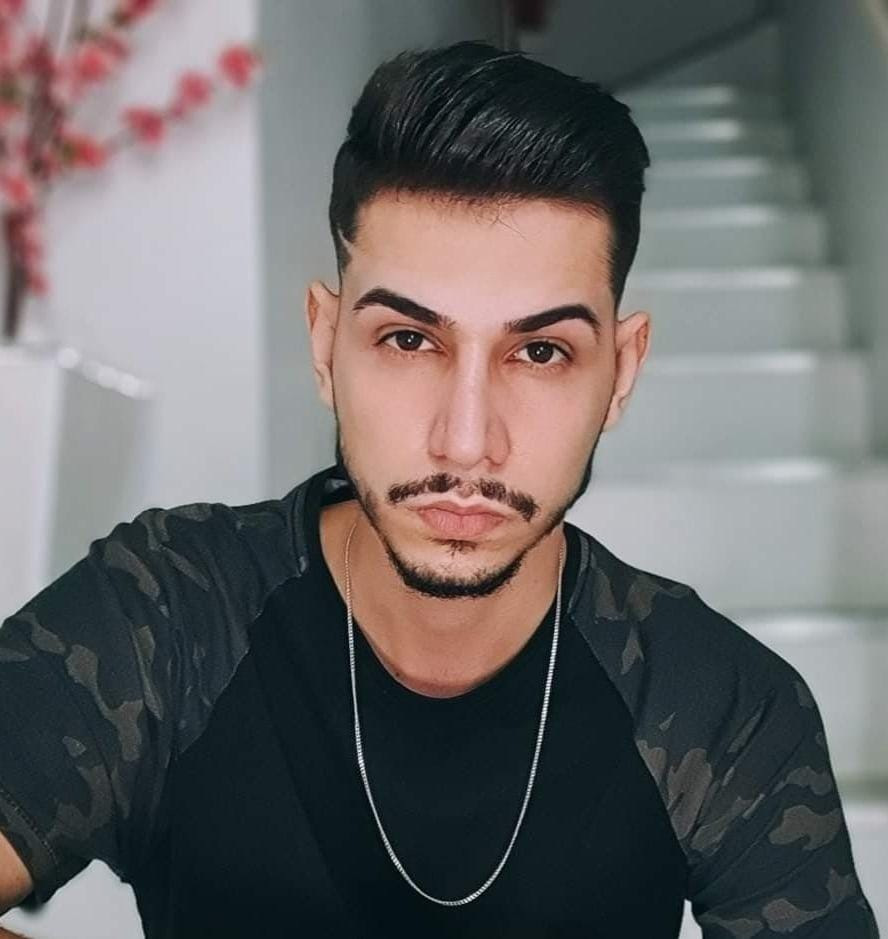
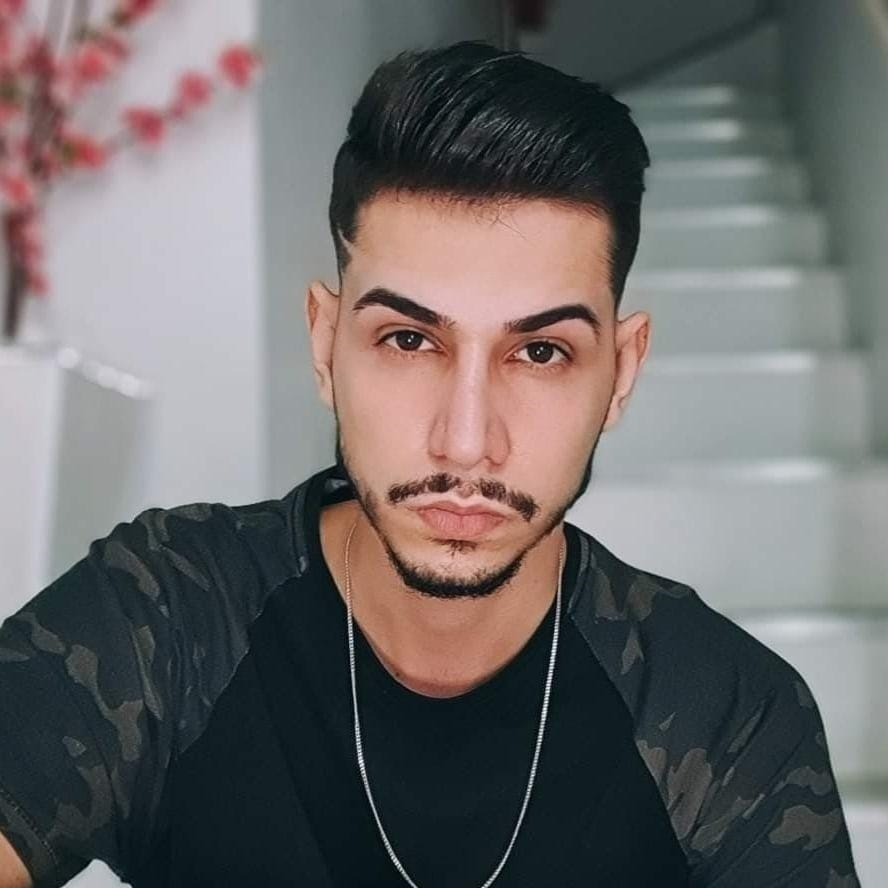
update

diff --git a/index.html b/index.html
@@ -13,109 +13,147 @@
 </head>
 <body>
     <main>
-        <div class="firstSection">
+        <section class="firstSection">
             <div class="background">
                 <div class="backgroundFilter">
                     <div class="contentMargin">
-                    <div class="contentFirstSection">
-                        <div class="textFirstSection">
-                            <h1>Paulo Geliandes da Silva</h1>
-                            <p>Desenvolvedor <strong>Front-end</p>
-                            <p></strong>e <strong>UI Designer </strong>em treinamento</p>
-                            <button>Curriculum</button>
+                        <div class="contentFirstSection">
+                            <div class="textFirstSection">
+                                <h1>Paulo Geliandes da Silva</h1>
+                                <p>Desenvolvedor <strong>Front-end</p>
+                                <p></strong>e <strong>UI Designer </strong>em treinamento</p>
+                                <button>Curriculum</button>
+                            </div>
+                            
+                            <img class="perfilPhoto" src="./images/paulo.jpeg">
                         </div>
-                        
-                        <img class="perfilPhoto" src="./images/299488755_482714549853856_693860245440978254_n.jpg">
+                        <div class="helpYou">
+                            <p class="sectionText">COMO EU <b>posso te ajudar</b>?</p>
+                            <p class="skills">Algumas de minhas habilidades</p>
+                            <div class="skillSection">
+                                <p class="titleSkillSection">Programação</p>
+                                <div class="skillCards">
+                                    <div class="skillCardContent">
+                                        <div class="containerImgSkillCard">
+                                            <img class="imgSkillCard" src="./images/html.png">
+                                            <img class="imgSkillCard" src="./images/css.png">
+                                        </div>
+                                        <p class="titleSkillCard">HTML/CSS</p>
+                                        <p class="textSkillCard">Desenvolvimento de sites completos e fieis aos mais variados designs propostos pelo cliente ou empresa.</p>
+                                    </div>
+
+                                    <div class="skillCardContent">
+                                        <div class="containerImgSkillCard">
+                                            <img class="imgSkillCard" src="./images/javascript.png">
+                                        </div>
+                                        <p class="titleSkillCard">JavaScript</p>
+                                        <p class="textSkillCard">Criação de funções mais avançadas em sites WEB com JavaScript Vanilla</p>
+                                    </div>             
+
+                                <div class="skillCardContent">
+                                    <div class="containerImgSkillCard">
+                                        <img class="imgSkillCard" src="./images/nodejs.png">
+                                    </div>
+                                    <p class="titleSkillCard">Node.js</p>
+                                    <p class="textSkillCard">Criação de aplicações multidirecionais utilizando packages e APIs</p>
+                                </div>
+
+                                <div class="skillCardContent">
+                                    <div class="containerImgSkillCard">
+                                        <img class="imgSkillCard" src="./images/c.png">
+                                    </div>
+                                    <p class="titleSkillCard">C</p>
+                                    <p class="textSkillCard">Manutenção e testes de softwares</p>
+                                </div>
+
+                                <div class="skillCardContent">
+                                    <div class="containerImgSkillCard">
+                                        <img class="imgSkillCard" src="./images/c-sharp.png">
+                                    </div>
+                                    <p class="titleSkillCard">C#</p>
+                                    <p class="textSkillCard">Desenvolvimento de aplicações para Windows (Windows Forms) com framework .NET</p>
+                                </div>
+
+                                <div class="skillCardContent">
+                                    <div class="containerImgSkillCard">
+                                        <img class="imgSkillCard" src="./images/python.png">
+                                    </div>
+                                    <p class="titleSkillCard">Python</p>
+                                    <p class="textSkillCard">Desenvolvimento de automações utilizando bibliotecas com o Jupyter Notebook</p>
+                                </div>
+
+                            </div>
+
+                                <p class="titleSkillSection">UI/Design</p>
+                                <div class="skillCards">
+                                    <div class="skillCardContent">
+                                        <div class="containerImgSkillCard">
+                                            <img class="imgSkillCard" src="./images/photoshop.png">
+                                        </div>
+                                        <p class="titleSkillCard">Photoshop</p>
+                                        <p class="textSkillCard">Criação e edição de imagens</p>
+                                    </div>
+
+                                    <div class="skillCardContent">
+                                        <div class="containerImgSkillCard">
+                                            <img class="imgSkillCard" src="./images/lightroom-cc.png">
+                                        </div>
+                                        <p class="titleSkillCard">Lightroom</p>
+                                        <p class="textSkillCard">Edição e tratamento de imagens</p>
+                                    </div>
+
+                                    <div class="skillCardContent">
+                                        <div class="containerImgSkillCard">
+                                            <img class="imgSkillCard" src="./images/figma.png">
+                                        </div>
+                                        <p class="titleSkillCard">Figma</p>
+                                        <p class="textSkillCard">Desenvolvimento de Layouts para aplicações desktop, web, mobile e posts para instagram.</p>
+                                    </div>
+                                </div>
+                            </div>
+                        </div>       
+                    </div>         
+                </div>   
+            </div>    
+        </div>
+
+        <section class="backgroundSecondSection">
+            <div class="secondSection">
+                <p class="sectionText">projetos</p>
+                <p class="skills">Alguns projetos desenvolvidos por mim</p>
+                <div class="projects">
+                    <div class="projectsContainer">
+                        <div class="imgProjectContainer">
+                            <img class="imgProject" src="./images/pagina-de-captura.png">
+                        </div>
+                        <p class="titleProject">Página de Captura (HTML/CSS)</p>
+                        <p class="textProject">O projeto "Página de Captura", desenvolvido durante o segundo mês estudando desenvolvimento web. Criado para colocar em prática os conhecimentos adiquiridos sobre HTML e CSS.</p>
                     </div>
-                    <div class="helpYou">
-                        <p class="helpYouText">COMO EU <b>posso te ajudar</b>?</p>
-                        <p class="skills">Algumas de minhas habilidades</p>
-                        <div class="skillSection">
-                            <p class="titleSkillSection">Programação</p>
-                            <div class="skillCards">
-                                <div class="skillCardContent">
-                                    <div class="containerImgSkillCard">
-                                        <img class="imgSkillCard" src="./images/html.png">
-                                        <img class="imgSkillCard" src="./images/css.png">
-                                    </div>
-                                    <p class="titleSkillCard">HTML/CSS</p>
-                                    <p class="textSkillCard">Desenvolvimento de sites completos e fieis aos mais variados designs propostos pelo cliente ou empresa.</p>
-                                </div>
 
-                                <div class="skillCardContent">
-                                    <div class="containerImgSkillCard">
-                                        <img class="imgSkillCard" src="./images/javascript.png">
-                                    </div>
-                                    <p class="titleSkillCard">JavaScript</p>
-                                    <p class="textSkillCard">Criação de funções mais avançadas em sites WEB com JavaScript Vanilla</p>
-                                </div>             
-
-                            <div class="skillCardContent">
-                                <div class="containerImgSkillCard">
-                                    <img class="imgSkillCard" src="./images/nodejs.png">
-                                </div>
-                                <p class="titleSkillCard">Node.js</p>
-                                <p class="textSkillCard">Criação de aplicações multidirecionais utilizando packages e APIs</p>
-                            </div>
-
-                            <div class="skillCardContent">
-                                <div class="containerImgSkillCard">
-                                    <img class="imgSkillCard" src="./images/c.png">
-                                </div>
-                                <p class="titleSkillCard">C</p>
-                                <p class="textSkillCard">Manutenção e testes de softwares</p>
-                            </div>
-
-                            <div class="skillCardContent">
-                                <div class="containerImgSkillCard">
-                                    <img class="imgSkillCard" src="./images/c-sharp.png">
-                                </div>
-                                <p class="titleSkillCard">C#</p>
-                                <p class="textSkillCard">Desenvolvimento de aplicações para Windows (Windows Forms) com framework .NET</p>
-                            </div>
-
-                            <div class="skillCardContent">
-                                <div class="containerImgSkillCard">
-                                    <img class="imgSkillCard" src="./images/python.png">
-                                </div>
-                                <p class="titleSkillCard">Python</p>
-                                <p class="textSkillCard">Desenvolvimento de automações utilizando bibliotecas com o Jupyter Notebook</p>
-                            </div>
-
+                    <div class="projectsContainer">
+                        <div class="imgProjectContainer">
+                            <img class="imgProject" src="./images/validador-de-cpf.png">
                         </div>
-
-                            <p class="titleSkillSection">UI/Design</p>
-                            <div class="skillCards">
-                                <div class="skillCardContent">
-                                    <div class="containerImgSkillCard">
-                                        <img class="imgSkillCard" src="./images/photoshop.png">
-                                    </div>
-                                    <p class="titleSkillCard">Photoshop</p>
-                                    <p class="textSkillCard">Criação e edição de imagens</p>
-                                </div>
-
-                                <div class="skillCardContent">
-                                    <div class="containerImgSkillCard">
-                                        <img class="imgSkillCard" src="./images/lightroom-cc.png">
-                                    </div>
-                                    <p class="titleSkillCard">Lightroom</p>
-                                    <p class="textSkillCard">Edição e tratamento de imagens</p>
-                                </div>
-
-                                <div class="skillCardContent">
-                                    <div class="containerImgSkillCard">
-                                        <img class="imgSkillCard" src="./images/figma.png">
-                                    </div>
-                                    <p class="titleSkillCard">Figma</p>
-                                    <p class="textSkillCard">Desenvolvimento de Layouts para aplicações para desktop, web, mobile e posts para instagram.</p>
-                                </div>
-                            </div>
+                        <p class="titleProject">Validador de CPF (HTML/CSS/JS)</p>
+                        <p class="textProject">O projeto "Validador de CPF", desenvolvido durante o primeiro ano estudando desenvolvimento web. Criado para colocar em prática os conhecimentos adiquiridos sobre JS e lógica de programação.</p>
+                    </div>
+                    <div class="projectsContainer">
+                        <div class="imgProjectContainer">
+                            <img class="imgProject" src="./images/cadastro-de-produtos.png">
                         </div>
-                    </div>             
-                </div>         
+                        <p class="titleProject">Cadastro de Produtos (HTML/CSS/JS)</p>
+                        <p class="textProject">O projeto "Validador de CPF", desenvolvido durante o primeiro ano estudando desenvolvimento web. Criado para colocar em prática os conhecimentos adiquiridos sobre JS, simulando uma interface para cadastro de produtos.</p>
+                    </div>
+                    <div class="projectsContainer">
+                        <div class="imgProjectContainer">
+                            <img class="imgProject" src="./images/rocky.png">
+                        </div>
+                        <p class="titleProject">GeliPhotos (HTML/CSS/JS)</p>
+                        <p class="textProject">O projeto "GeliPhotos", desenvolvido durante o primeiro ano estudando desenvolvimento web. Foi desenvolvido como parte do teste de habilidades para ingressar na empresa Rocky.Monks como Analista de SEO - Estágio</p>
+                    </div>
+                </div>
             </div>
-        </div>
-        </div>
+        </section>
     </main>
 
     <script type="text/javascript" src="./js/general.js"></script>

diff --git a/css/home.css b/css/home.css
@@ -55,19 +55,25 @@
     font-size: 20px;
     margin-top: 21px;
     cursor: pointer;
+    box-shadow: inset -20px -20px 60px #2C34E3, inset 20px 20px 60px #2C34E3;
+}
+
+.contentFirstSection button:hover{
+    background: linear-gradient(315deg, #7077fe, #2C34E3);
+    box-shadow:  0px 0px 20px #2C34E3, 0px 0px 20px #2C34E3;
 }
 
 .perfilPhoto{
     width: 400px;
-    border-radius: 50%;
     filter: grayscale();
+    clip-path: circle(50% at 50% 50%);
 }
 
 .helpYou{
     margin-top: 128px;
 }
 
-.helpYouText{
+.sectionText{
     text-transform: uppercase;
     font-weight: 200;
     color: #11C92E;
@@ -75,7 +81,7 @@
 
 }
 
-.helpYouText b{
+.sectionYouText b{
     font-weight: 400;
 }
 
@@ -92,7 +98,7 @@
     align-items: center;
     justify-content: space-around;
     color: white;
-    padding-bottom: 60px;
+    padding-bottom: 100px;
 }
 
 .titleSkillSection{
@@ -151,3 +157,58 @@
     width: 88px;
     border-radius: 10px;
 }
+
+.backgroundSecondSection{
+    background-color: #E2E2E5;
+}
+
+.secondSection{
+    padding-top: 69px;
+    max-width: 1366px;
+    margin: auto;
+}
+
+.secondSection .skills{
+    color: #151620;
+    padding-bottom: 48px;
+}
+
+.projects{
+    display: grid;
+    grid-template-columns: auto auto;
+    grid-template-rows: auto auto auto;
+    justify-content: space-around;
+}
+
+.projectsContainer{
+    margin-inline: 50px;
+    width: 466px;
+    margin-bottom: 66px;
+}
+
+.imgProjectContainer{
+
+
+}
+.imgProject{
+    width: 450px;
+    height: 306px;
+    object-fit: cover;
+    object-position: top;
+    border-radius: 12px;
+}
+
+.titleProject{
+    font-size: 24px;
+    line-height: 35px;
+    font-weight: 400;
+}
+
+.textProject{
+    margin-top: 8px;
+    font-size: 16px;
+    line-height: 24px;
+    font-weight: 200;
+    color: #151620;
+}
+
